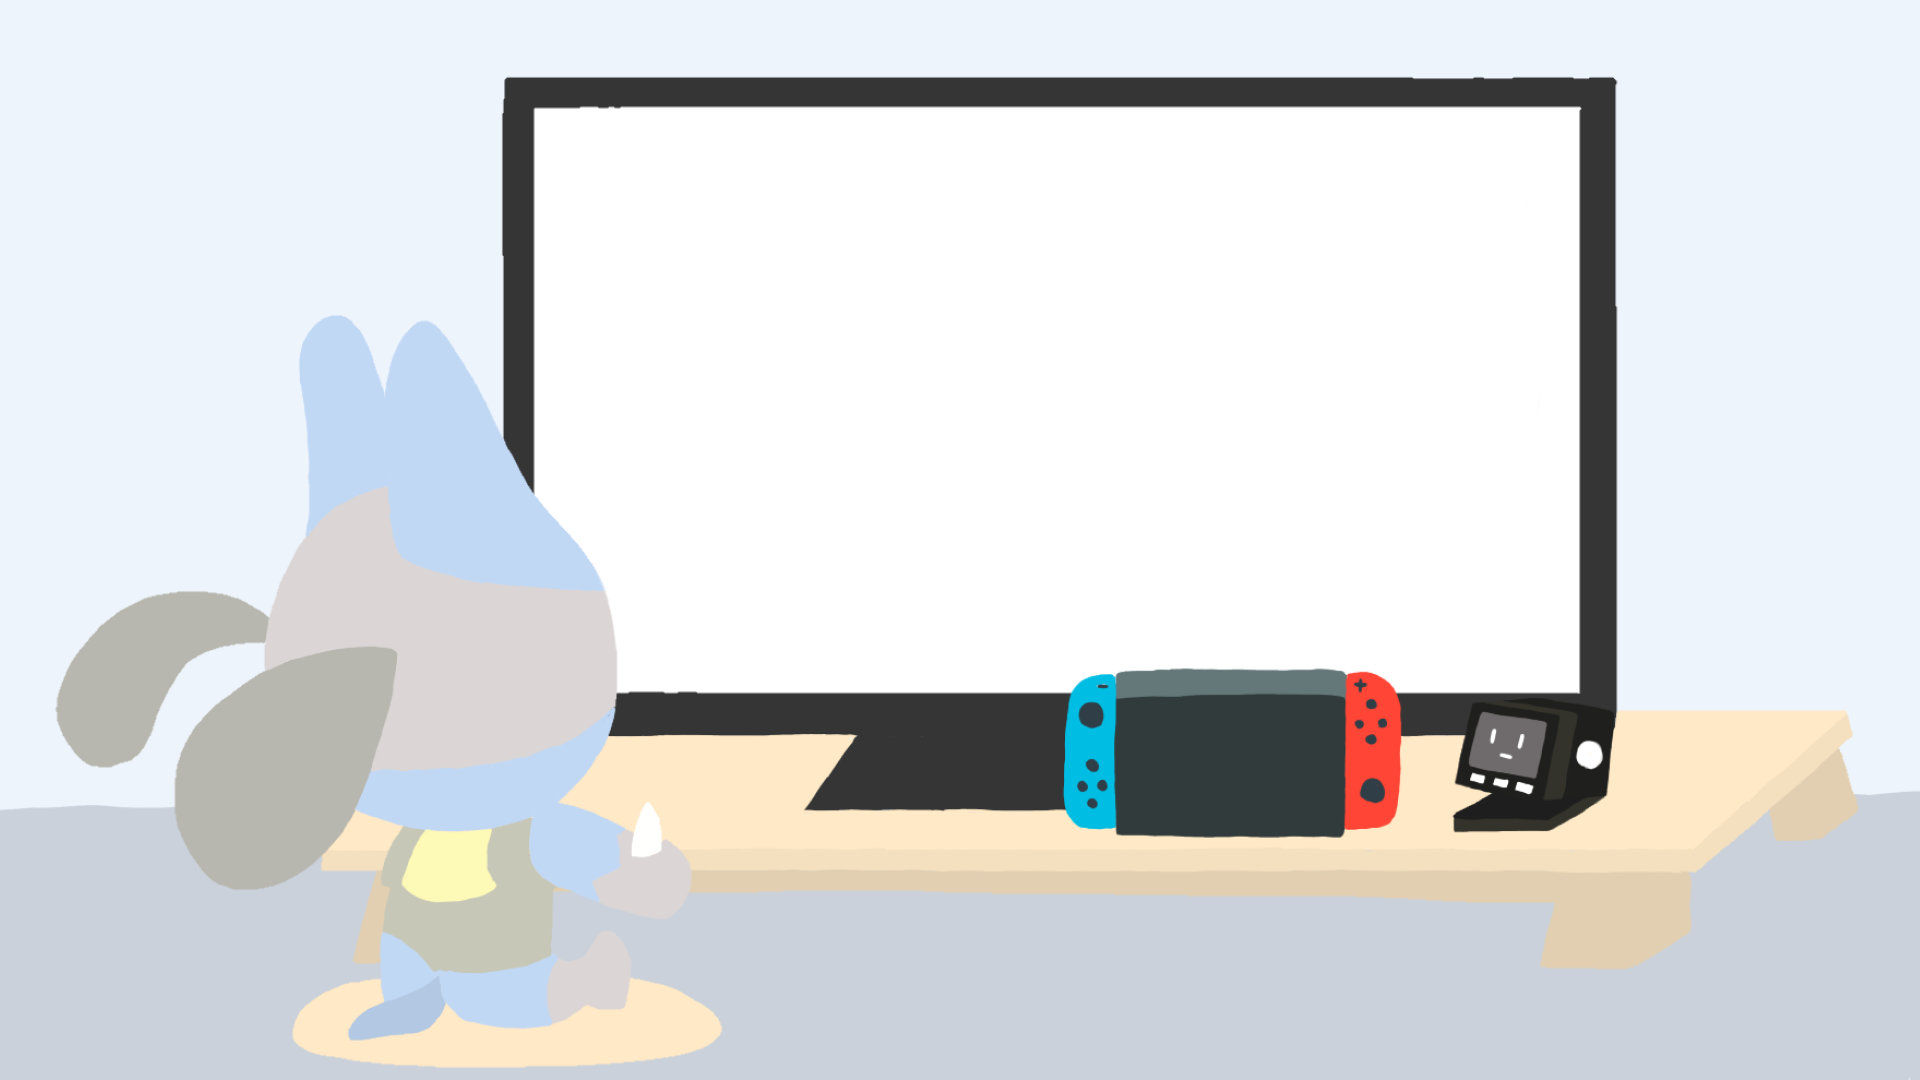
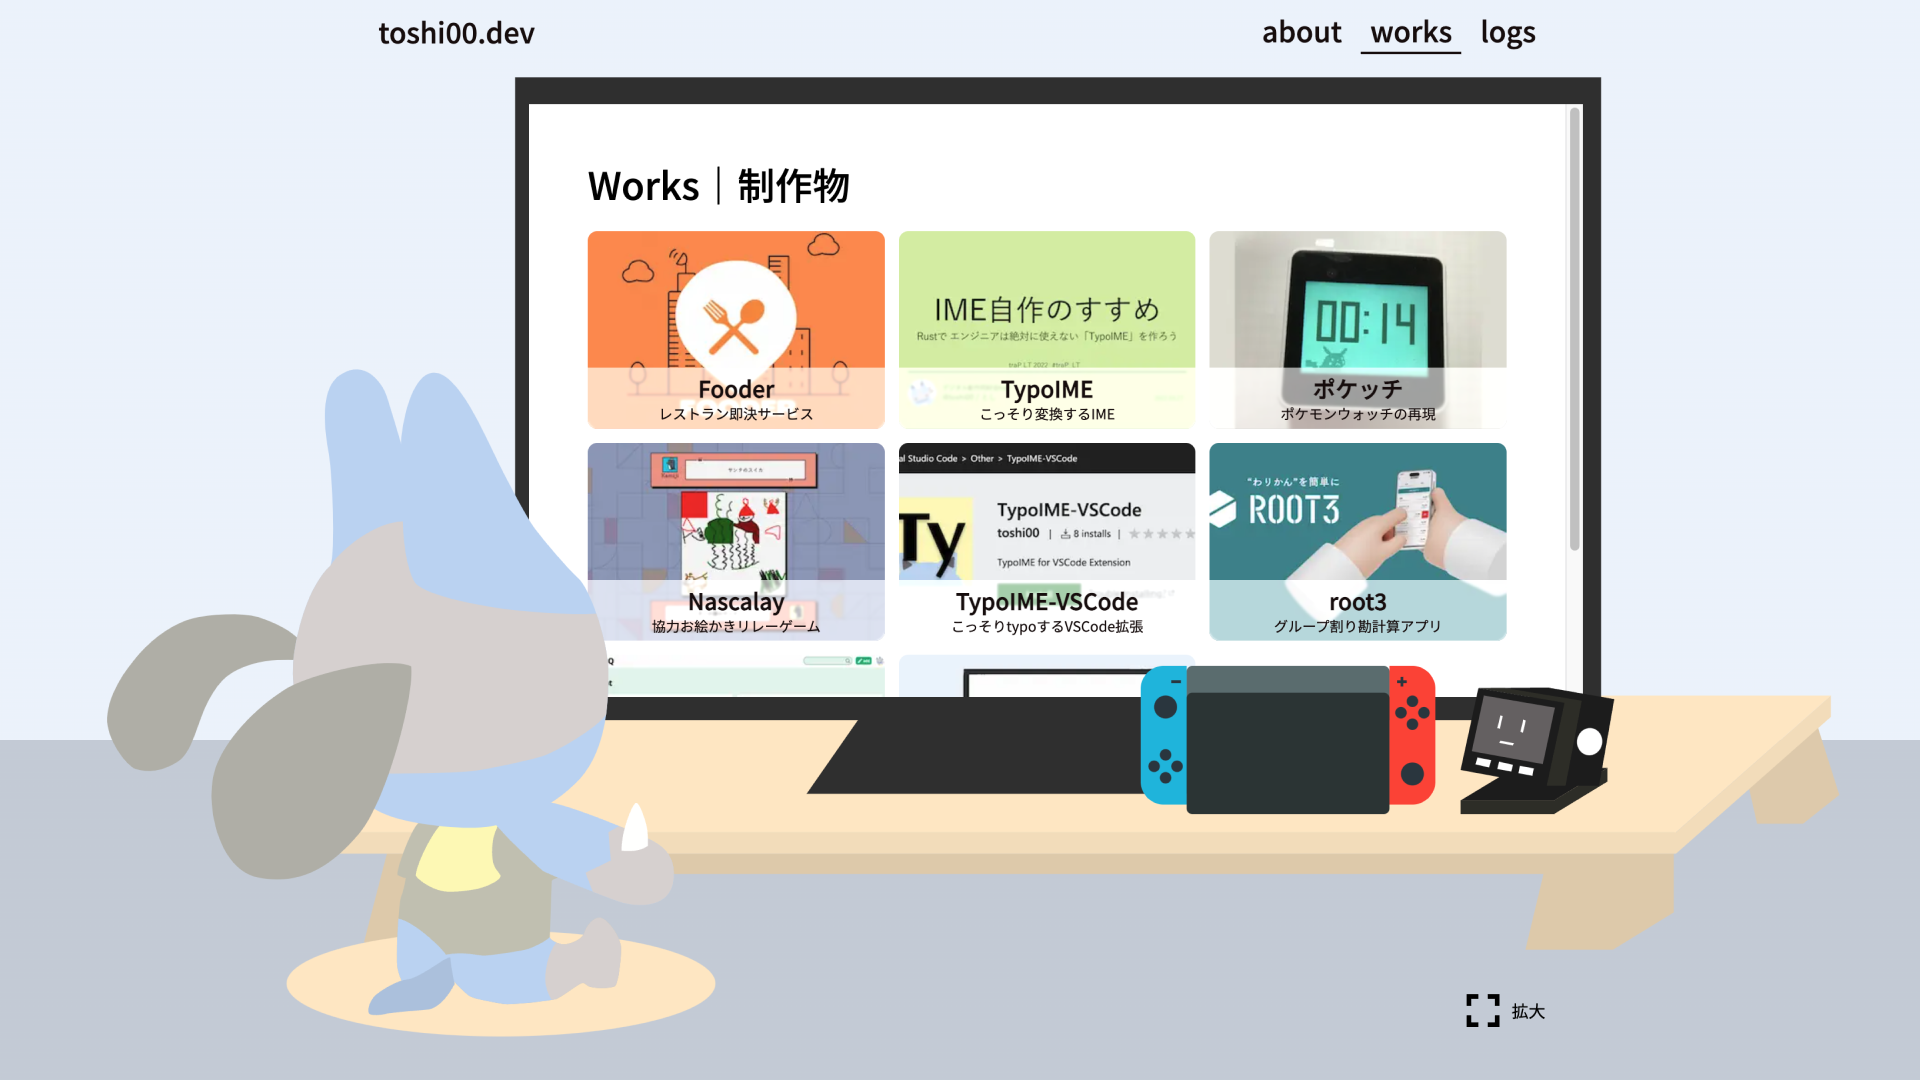
📚 Readmeを更新

diff --git a/README.md b/README.md
@@ -1,36 +1,22 @@
-This is a [Next.js](https://nextjs.org/) project bootstrapped with [`create-next-app`](https://github.com/vercel/next.js/tree/canary/packages/create-next-app).
+# toshi00-portfolio
 
-## Getting Started
+![portfolio](https://github.com/toshi-pono/toshi00-portfolio/blob/main/public/works/portfolio.png)
 
-First, run the development server:
+## Overview
+
+toshi00(とし) の制作物まとめサイトです。
+
+- [Next.js](https://nextjs.org/)
+- [TypeScript](https://www.typescriptlang.org/)
+- CSS Modules
+
+## Development
 
 ```bash
-npm run dev
-# or
+yarn
 yarn dev
 ```
 
-Open [http://localhost:3000](http://localhost:3000) with your browser to see the result.
+## Author
 
-You can start editing the page by modifying `app/page.tsx`. The page auto-updates as you edit the file.
-
-[API routes](https://nextjs.org/docs/api-routes/introduction) can be accessed on [http://localhost:3000/api/hello](http://localhost:3000/api/hello). This endpoint can be edited in `pages/api/hello.ts`.
-
-The `pages/api` directory is mapped to `/api/*`. Files in this directory are treated as [API routes](https://nextjs.org/docs/api-routes/introduction) instead of React pages.
-
-This project uses [`next/font`](https://nextjs.org/docs/basic-features/font-optimization) to automatically optimize and load Inter, a custom Google Font.
-
-## Learn More
-
-To learn more about Next.js, take a look at the following resources:
-
-- [Next.js Documentation](https://nextjs.org/docs) - learn about Next.js features and API.
-- [Learn Next.js](https://nextjs.org/learn) - an interactive Next.js tutorial.
-
-You can check out [the Next.js GitHub repository](https://github.com/vercel/next.js/) - your feedback and contributions are welcome!
-
-## Deploy on Vercel
-
-The easiest way to deploy your Next.js app is to use the [Vercel Platform](https://vercel.com/new?utm_medium=default-template&filter=next.js&utm_source=create-next-app&utm_campaign=create-next-app-readme) from the creators of Next.js.
-
-Check out our [Next.js deployment documentation](https://nextjs.org/docs/deployment) for more details.
+[twitter](https://twitter.com/toshi00_p)
